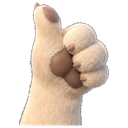
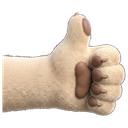
иконки: у пальцев вверх и вниз рука входит сбоку
Было: у пальца вверх предплечье уходило вниз, у пальца вниз — вверх, и две
кнопки рядом выглядели как разные наборы. Стало: обе руки входят слева,
жест отличается только направлением большого пальца.

Попутно правило про якорь для лап: якорем должна быть лапа, а не морда.
Прогон со стилевым якорем-мордой протащил в кадр кепку с ушами, хотя
клауза PAW их прямо запрещает — образец оказался сильнее запрета.
С якорем-лапой (bully_detail) запрет держится.

Claude-Session: https://claude.ai/code/session_01P6FbspjU9fFr6Gxc8sAvGG

diff --git a/иконки/prompt-each.md b/иконки/prompt-each.md
@@ -178,6 +178,16 @@ no label, no watermark, no border, no frame.
 а лапа во весь кадр читается сразу. Лапа именно собачья: широкая, с короткими
 толстыми пальцами и подушечками, не человеческая рука в перчатке.
 
+**Рука входит сбоку**, а не снизу и не сверху: у пальца вверх и пальца вниз
+предплечье уходит к левому краю, и жест отличается только направлением
+большого пальца. Когда рука входила снизу у одной и сверху у другой, две
+кнопки рядом выглядели как разные наборы.
+
+**Якорь для лапы — лапа, а не морда.** Прогон со стилевым якорем-мордой
+протащил в кадр кепку с ушами, хотя клауза их прямо запрещает: образец
+сильнее запрета. Якорем служит уже принятая лапа (`bully_detail`), и тогда
+запрет держится.
+
 Клауза `PAW` отменяет абзац про кадрирование: головы и кепки в таком кадре
 нет вовсе. Без этой отмены шаблон требует «голова занимает большую часть
 кадра», и модель пририсовывает морду к лапе.
@@ -257,8 +267,8 @@ no label, no watermark, no border, no frame.
 | `bully_done` | `BADGE green. GREEN denim cap. Eyes closed in a satisfied happy smile, a big bright white check mark beside the head inside the badge.` |
 | `bully_fail` | `BADGE red. RED denim cap. Sad apologetic face, ears drooping down, mouth a small unhappy line — the sadness is in the ears and the mouth, NOT in the eyes. The eyes stay exactly as in the attached references: huge, round, glossy, cartoon dark-brown eyes with the same big white highlights. They are not realistic dog eyes, not watery, not teary, not wrinkled, not narrowed. A big bright white cross mark beside the head inside the badge.` |
 | `bully_hi` | `BADGE blue. Blue denim cap. One front paw raised high beside the head waving hello, big warm open smile, ears perked up. Nothing else in the image.` |
-| `bully_helpful` | `PAW. A big thumbs-up made with one front paw: the paw held upright, the side toe sticking straight up like a thumb, the other toes curled in, pads facing forward. Confident and friendly.` |
-| `bully_not_helpful` | `PAW. A big thumbs-down made with one front paw: the paw held upside down, the side toe pointing straight down like a thumb, the other toes curled in. Nothing else in the image.` |
+| `bully_helpful` | `PAW. One front paw entering the frame horizontally from the LEFT side: the short stub of leg runs out to the LEFT edge, so the arm comes in from the side — NOT from below, NOT from above. The paw itself is in the middle of the frame at the end of that leg, making a big thumbs-up: the side toe sticking straight up like a thumb, the other toes curled in, pads facing forward. There is NO head, NO ears, NO cap, NO muzzle, NO body and NO other legs anywhere in the image: only this one paw and the short stub of leg it sits on.` |
+| `bully_not_helpful` | `PAW. One front paw entering the frame horizontally from the LEFT side: the short stub of leg runs out to the LEFT edge, so the arm comes in from the side — NOT from below, NOT from above. The paw itself is in the middle of the frame at the end of that leg, making a big thumbs-down: the side toe pointing straight down like a thumb, the other toes curled in, pads facing forward. There is NO head, NO ears, NO cap, NO muzzle, NO body and NO other legs anywhere in the image: only this one paw and the short stub of leg it sits on.` |
 | `bully_detail` | `PAW. One front paw entering the frame from the RIGHT side, holding a short thick yellow pen at a natural writing angle of about 45 degrees, the tip of the pen touching the paper and actually writing. Under it a small blank white notepad lying at a slight angle. The paw is the biggest thing in the image and the notepad is small beneath it. No head, no ears, no cap and no other part of him anywhere in the image. The notepad is blank: no writing, no lines, no letters on it.` |
 | `bully_search` | `BADGE blue. Blue denim cap. Holding a big magnifying glass up in front of one eye, that eye hugely magnified through the lens, the other eye normal size, focused curious expression.` |
 | `bully_high` | `BADGE green. GREEN denim cap. Calm confident closed-mouth smile, eyes bright and steady, ears perked up, head straight. Nothing else in the image at all: no object, no raised paws, no symbol. The green badge is the whole signal.` |
